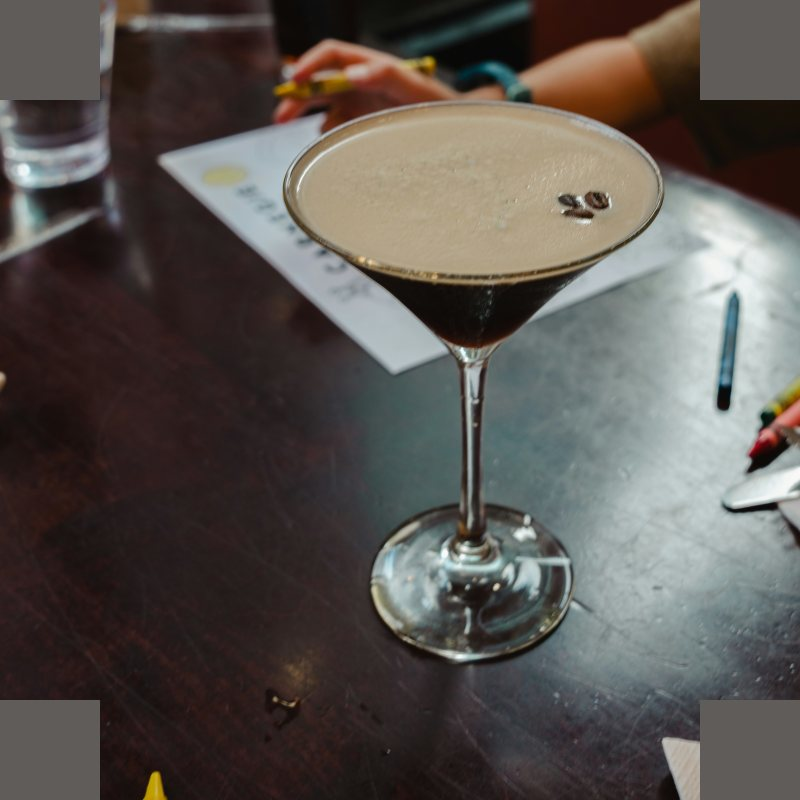
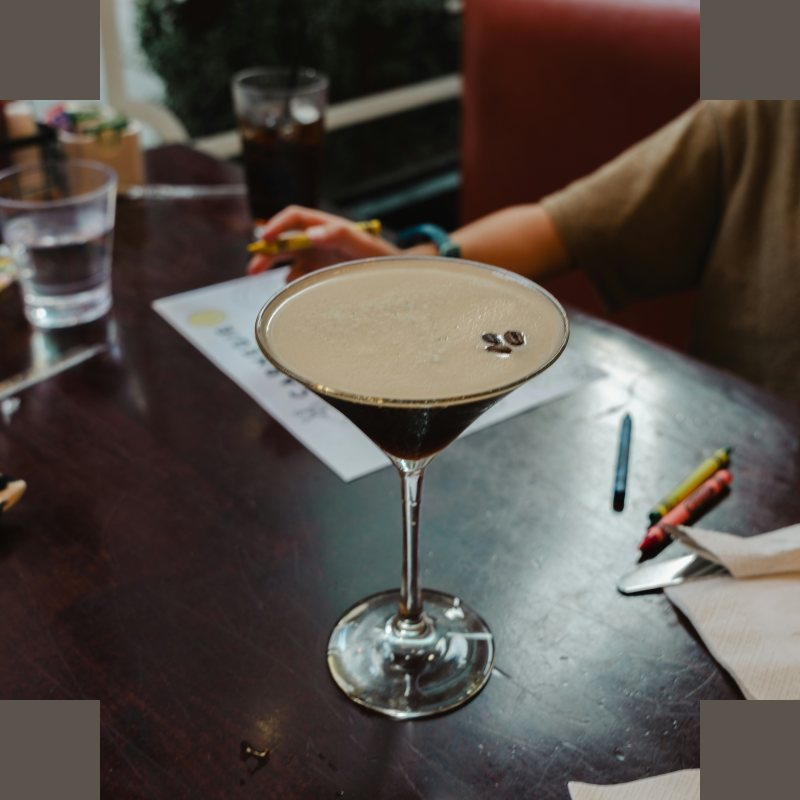
Variantes pleine largeur, recette de base reprise, Difford's (v0.43.1)
- Fiche recette : les variantes forment un bloc pleine largeur sous les deux
  colonnes, qui restent équilibrées.
- Nouvelle recette : choisir une recette dans « Variante de » reprend ses
  ingrédients, sa préparation, sa méthode, son verre, sa garniture et sa couleur
  (si aucun ingrédient n'est saisi) ; le bouton « Créer une variante » reprend
  les mêmes éléments.
- Difford's Guide remis là où il est l'auteur (Dark 'n' Stormy, Berry Blast,
  Ginger No-jito).
- Photo de l'Espresso Martini d'Anders Erickson recadrée avec de l'espace au-dessus.

Claude-Session: https://claude.ai/code/session_01MGrXtKPwEujzpoV9NF5CqB

diff --git a/app.js b/app.js
@@ -1,7 +1,7 @@
 /* Zeste : logique de l'application. Les données de départ sont dans data.js. */
 'use strict';
 
-const APP_VERSION = '0.43.0';
+const APP_VERSION = '0.43.1';
 const KEY = 'zeste-v1';
 const UNITS = ['ml', 'cl', ['oz', 'oz (→ ml)'], ['cup', 'cup (→ ml)'], 'g', ['', 'sans unité'], 'trait', 'goutte', 'c. de bar', 'c. à café', 'c. à soupe', 'pièce', 'feuille', 'brin', 'quartier', 'tranche', 'pincée', 'à compléter'];
 const PLURAL_UNITS = ['trait', 'goutte', 'pièce', 'feuille', 'brin', 'quartier', 'tranche', 'pincée'];
@@ -1347,8 +1347,10 @@ function openDetail(id, keep, back) {
         <p class="legend"><span><i class="dot"></i>Dans le bar</span><span><i class="dot sub"></i>Substitut dispo</span><span><i class="dot home"></i>À faire maison</span><span><i class="dot miss"></i>Manquant</span><span><i class="dot opt"></i>Facultatif</span></p></section>
       ${r.steps.length ? `<section class="sec o7"><h2>Préparation</h2><ol class="steps">${r.steps.map(s => `<li><span>${esc(s)}</span></li>`).join('')}</ol></section>` : ''}
       ${r.note ? `<section class="sec o10"><h2>Notes de la recette</h2><ul class="notes">${String(r.note).split('\n').map(x => x.trim()).filter(Boolean).map(x => `<li>${esc(x)}</li>`).join('')}</ul></section>` : ''}
-      ${vars.length ? `<section class="sec o11"><div class="shead"><h2>Variantes</h2><span class="count">${vars.length}</span></div><p class="hint">Recettes dérivées de celle-ci : un autre alcool, un ingrédient en moins ou en plus. Utile pour trouver une alternative.</p><div class="rgrid">${vars.map(v => v.parent === r.id ? rcardHTML(v, ownedSet()) : `<div class="subvar">${rcardHTML(v, ownedSet())}<span class="subvar-of">Variante de ${esc((parentOf(v) || {}).name || '')}</span></div>`).join('')}</div></section>` : ''}
-      <div class="o12 row-btns"><button class="btn" data-act="new-variant" data-id="${esc(r.id)}">Créer une variante</button></div>
+    </div>
+    <div class="d-full o11">
+      ${vars.length ? `<section class="sec"><div class="shead"><h2>Variantes</h2><span class="count">${vars.length}</span></div><p class="hint">Recettes dérivées de celle-ci : un autre alcool, un ingrédient en moins ou en plus. Utile pour trouver une alternative.</p><div class="rgrid">${vars.map(v => v.parent === r.id ? rcardHTML(v, ownedSet()) : `<div class="subvar">${rcardHTML(v, ownedSet())}<span class="subvar-of">Variante de ${esc((parentOf(v) || {}).name || '')}</span></div>`).join('')}</div></section>` : ''}
+      <div class="row-btns"><button class="btn" data-act="new-variant" data-id="${esc(r.id)}">Créer une variante</button></div>
     </div>
   </article></div>`;
   showSheet(); const nta = $('#my-note'); if (nta) autosize(nta); sh.scrollTop = st;
@@ -1550,14 +1552,15 @@ function rowHTML(row) {
 }
 function checkNew(fr) { const v = fr.querySelector('.f-ing').value.trim(); fr.querySelector('.frow-new').hidden = !v || !!findIng(v); }
 const CUT_KEYS = GARNISH_CUTS.map(c => c[0]);
-function openForm(id, variantOf) {
+function openForm(id, variantOf, keep) {
   const base = !id && variantOf ? S.recipes.find(r => r.id === variantOf) : null;
-  const src = id ? S.recipes.find(r => r.id === id) : base;
+  const src = id ? S.recipes.find(r => r.id === id) : null;
   const r = src ? clone(src) : { name: '', origin: 'Original', by: 'me', author: '', method: 'Shaker', glass: 'Coupe', garn: '', garnish: '', rim: '', color: '#FFC21A', photo: '', flavor: { su: null, ac: null, am: null, as: null, fo: null }, tags: [], ings: [], steps: [], note: '' };
   /* Nouvelle variante : on part de la recette de base (à modifier), comme création personnelle liée à elle. */
+  /* On ne reprend que ce qui fait la recette : ingrédients, préparation, méthode, verre, garniture et couleur. */
   if (base) {
-    ['id', 'src', 'edited', 'created', 'photoCredit', 'subtitle', 'source', 'url', 'easy'].forEach(k => delete r[k]);
-    Object.assign(r, { name: base.name + ' (variante)', origin: 'Original', by: 'me', author: '', photo: '', parent: base.id });
+    ['ings', 'steps', 'method', 'glass', 'garn', 'garnish', 'rim', 'color'].forEach(k => { r[k] = clone(base[k]); });
+    Object.assign(r, { parent: base.id }, keep || { name: base.name + ' (variante)' });
   }
   /* Recette de base possible : toutes, sauf elle-même et ses propres variantes (pas de boucle). Un nom porté par deux recettes est précisé par l'id. */
   const noParent = new Set(id ? [id, ...descendantIds(id)] : []);
@@ -1653,7 +1656,7 @@ function openForm(id, variantOf) {
     </div>
   </form></div>`;
   sh.querySelectorAll('.frow').forEach(checkNew);
-  updatePrev(); syncHSL(); showSheet(); sh.scrollTop = 0; pushNav();
+  updatePrev(); syncHSL(); showSheet(); sh.scrollTop = 0; if (keep) replaceNav(); else pushNav();
 }
 function currentGarn() {
   const c = $('#rf-gcut') ? $('#rf-gcut').value : 'none';
@@ -2083,6 +2086,18 @@ document.addEventListener('input', e => {
   if (t.id && t.id.startsWith('rf-') && t.type === 'range') { const k = t.id.slice(3); $('#ro-' + k).textContent = t.value; const u = $('#uk-' + k); if (u && u.checked) { u.checked = false; $('#sl-' + k).classList.remove('unk'); } }
 });
 document.addEventListener('change', e => {
+  /* Nouvelle recette : choisir une recette de base dans « Variante de » reprend sa recette (si aucun ingrédient n'est encore saisi). */
+  if (e.target.id === 'rf-parent' && sheetState && sheetState.type === 'form' && !sheetState.id) {
+    const pid = sheetState.pmap && sheetState.pmap.get(norm(e.target.value));
+    const filled = [...document.querySelectorAll('#rform .f-ing')].some(x => x.value.trim());
+    if (pid && !filled) {
+      const g = x => ($('#' + x) || {}).value || '';
+      const keep = { name: g('rf-name') || ((S.recipes.find(x => x.id === pid) || {}).name || '') + ' (variante)', subtitle: g('rf-sub'), note: g('rf-note') };
+      const st = $('#sheet').scrollTop; openForm(null, pid, keep); $('#sheet').scrollTop = st;
+      toast('Recette de base reprise : il reste à la modifier');
+    } else if (pid && filled) toast('Les ingrédients déjà saisis sont conservés');
+    return;
+  }
   const t = e.target;
   if (t.name === 'rf-by') { syncOrig(); return; }
   if (t.classList.contains('uk')) { const k = t.dataset.k; $('#sl-' + k).classList.toggle('unk', t.checked); $('#ro-' + k).textContent = t.checked ? '—' : $('#rf-' + k).value; return; }

diff --git a/data.js b/data.js
@@ -2,7 +2,7 @@
    Les étapes sont rédigées pour Zeste. */
 'use strict';
 
-const DATA_VERSION = 27;
+const DATA_VERSION = 28;
 
 /* Familles du bar, dans l'ordre d'affichage. Les sous-familles s'affichent en volets dépliables. */
 const FAMILIES = [
@@ -797,11 +797,11 @@ RECIPES.push(
   BY(R('berry-blast', 'Berry Blast', 'S', 'Highball', 'mint', 'Rondelle de citron', '', '#C2364F', '43010', 'Fruité,Rafraîchissant',
     [['framboise', 8, 'pièce'], ['citron', 22.5], ['sirop-passion', 22.5], ['the-noir', 60], ['cranberry', 60]],
     ['Écraser les framboises au fond du shaker.', 'Ajouter le reste des ingrédients et shaker avec des glaçons.', 'Filtrer dans un verre rempli de glace et décorer.'],
-    'Utiliser un thé noir infusé puis refroidi.'), 'Adapté d’un cocktail de Jamie’s Italian', ''),
+    'Adapté par le Difford’s Guide d’un cocktail des bars Jamie’s Italian. Utiliser un thé noir infusé puis refroidi.'), 'Difford’s Guide, d’après Jamie’s Italian', ''),
   BY(R('ginger-no-jito', 'Ginger No-jito', 'D', 'Highball', 'mint', '', '', '#CFE3A0', '33000', 'Rafraîchissant,Herbacé',
     [['citron-vert', 22.5], ['sirop-sucre-riche', 15, 'ml', 's'], ['menthe', 12, 'feuille'], ['ginger-beer', 105]],
     ['Verser le jus de citron vert et le sirop dans le verre, puis le remplir à moitié de glace pilée.', 'Ajouter la menthe et bien remuer en soulevant la glace.', 'Compléter de glace pilée, verser le ginger beer et remuer brièvement.'],
-    'Le nom « No-jito » est emprunté à Wagamama.'), 'Adapté d’un cocktail de Jamie’s Italian', '')
+    'Adapté par le Difford’s Guide d’une boisson de Jamie’s Italian ; le nom « No-jito » est emprunté à Wagamama.'), 'Difford’s Guide, d’après Jamie’s Italian', '')
 );
 
 /* ---------- Deuxième lot : classiques et classiques modernes ---------- */
@@ -1444,7 +1444,7 @@ const RECIPE_EDITS = {
     tags: ["Rafraîchissant", "Pétillant"],
     ings: [{"id": "rhum-ambre", "qty": 60, "unit": "ml", "sub": false, "opt": false, "alts": []}, {"id": "ginger-beer", "qty": 100, "unit": "ml", "sub": false, "opt": false, "alts": []}],
     steps: ["Remplir un verre highball de glaçons et verser la ginger beer.", "Faire flotter le rhum sur le dessus.", "Décorer d’une rondelle de citron vert."],
-    note: "Une version plus proche d’un Daiquiri ajoute 20 ml de jus de citron vert, 10 ml de sirop de sucre (1:1) et 2 traits d’Angostura.",
+    note: "Le Difford’s Guide en donne une version plus proche d’un Daiquiri, avec 20 ml de jus de citron vert, 10 ml de sirop de sucre (1:1) et 2 traits d’Angostura.",
     source: "Aurait été inventé aux Bermudes après la 1ere Guerre Mondiale"
   },
   'espresso-martini': {

diff --git a/app.css b/app.css
@@ -722,3 +722,10 @@ input[type=radio]{accent-color:var(--accent)}
 .subvar-of{display:block;margin-top:4px;font-size:12px;color:var(--muted)}
 .eyebrow .orig a{color:inherit;text-decoration:underline;text-decoration-color:color-mix(in srgb,currentColor 40%,transparent);text-underline-offset:3px}
 .eyebrow .orig a:hover{text-decoration-color:currentColor}
+
+/* Variantes : bloc pleine largeur sous les deux colonnes de la fiche, pour qu'une longue liste ne déséquilibre pas les colonnes. */
+.d-full{display:flex;flex-direction:column;gap:16px;min-width:0}
+@media (min-width:1024px),(orientation:landscape) and (max-height:540px) and (min-width:560px){
+  .detail .d-full{grid-column:1/-1}
+  .detail .d-full .rgrid{grid-template-columns:repeat(auto-fill,minmax(240px,1fr))}
+}

diff --git a/sw.js b/sw.js
@@ -1,6 +1,6 @@
 /* Zeste : fonctionnement hors ligne.
    Changer VERSION à chaque mise en ligne : les appareils proposent alors la mise à jour. */
-const VERSION = 'zeste-0.43.0';
+const VERSION = 'zeste-0.43.1';
 const ASSETS = [
   './', 'index.html', 'app.css', 'app.js', 'data.js', 'infos.js', 'manifest.webmanifest',
   'icons/icon.svg', 'icons/icon-192.png', 'icons/icon-512.png', 'icons/icon-maskable-192.png', 'icons/icon-maskable-512.png', 'icons/apple-touch-icon.png', 'icons/favicon-32.png',
